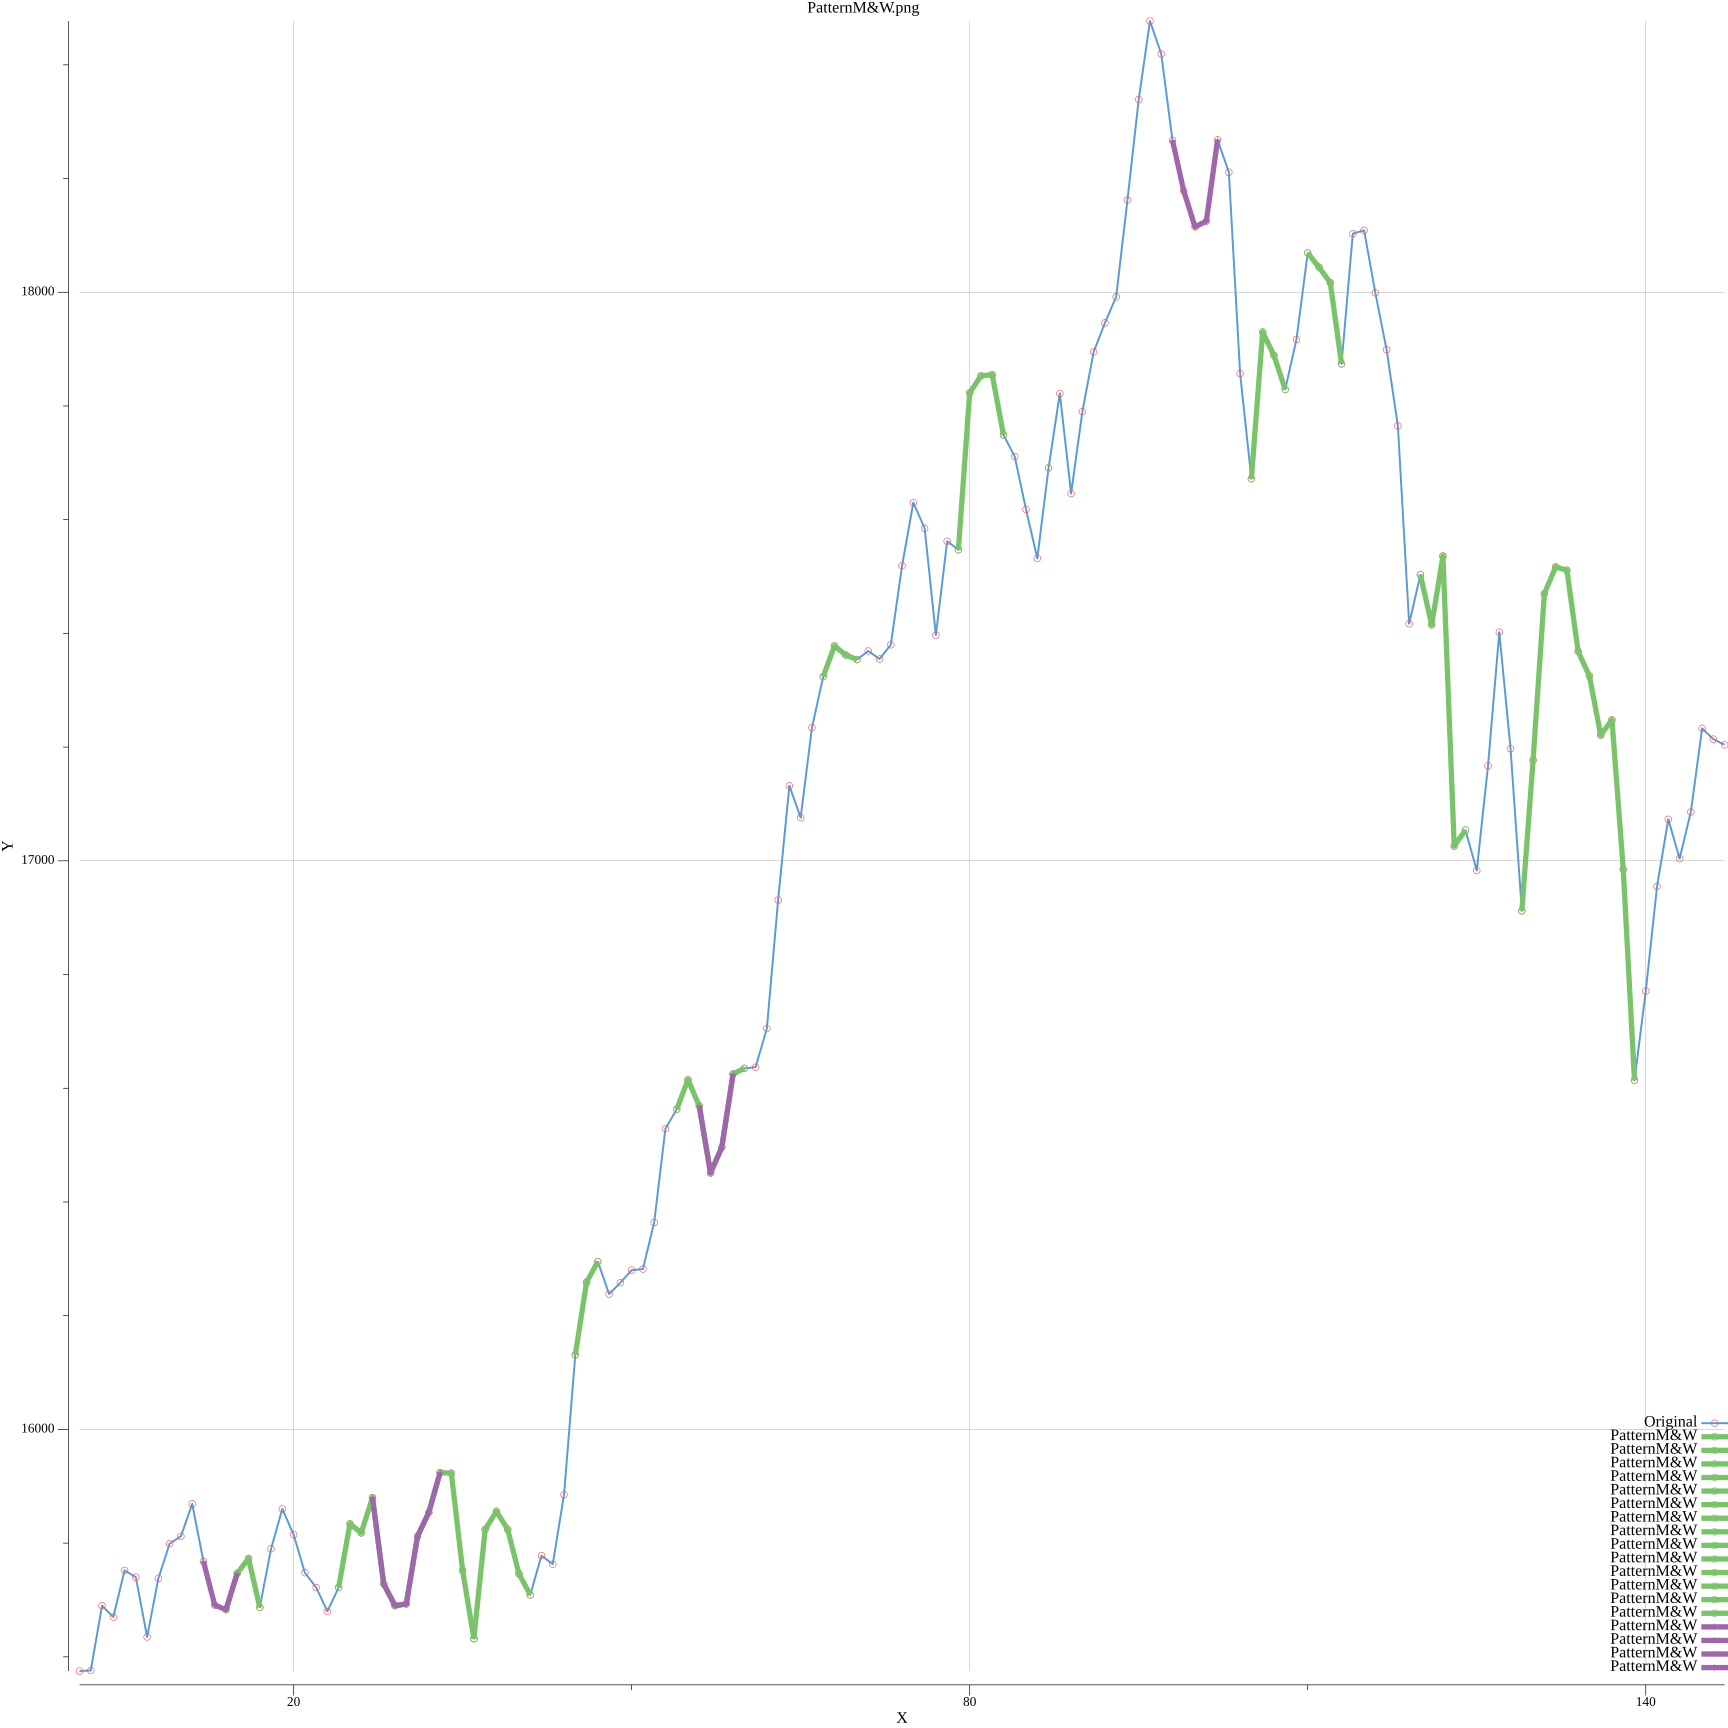
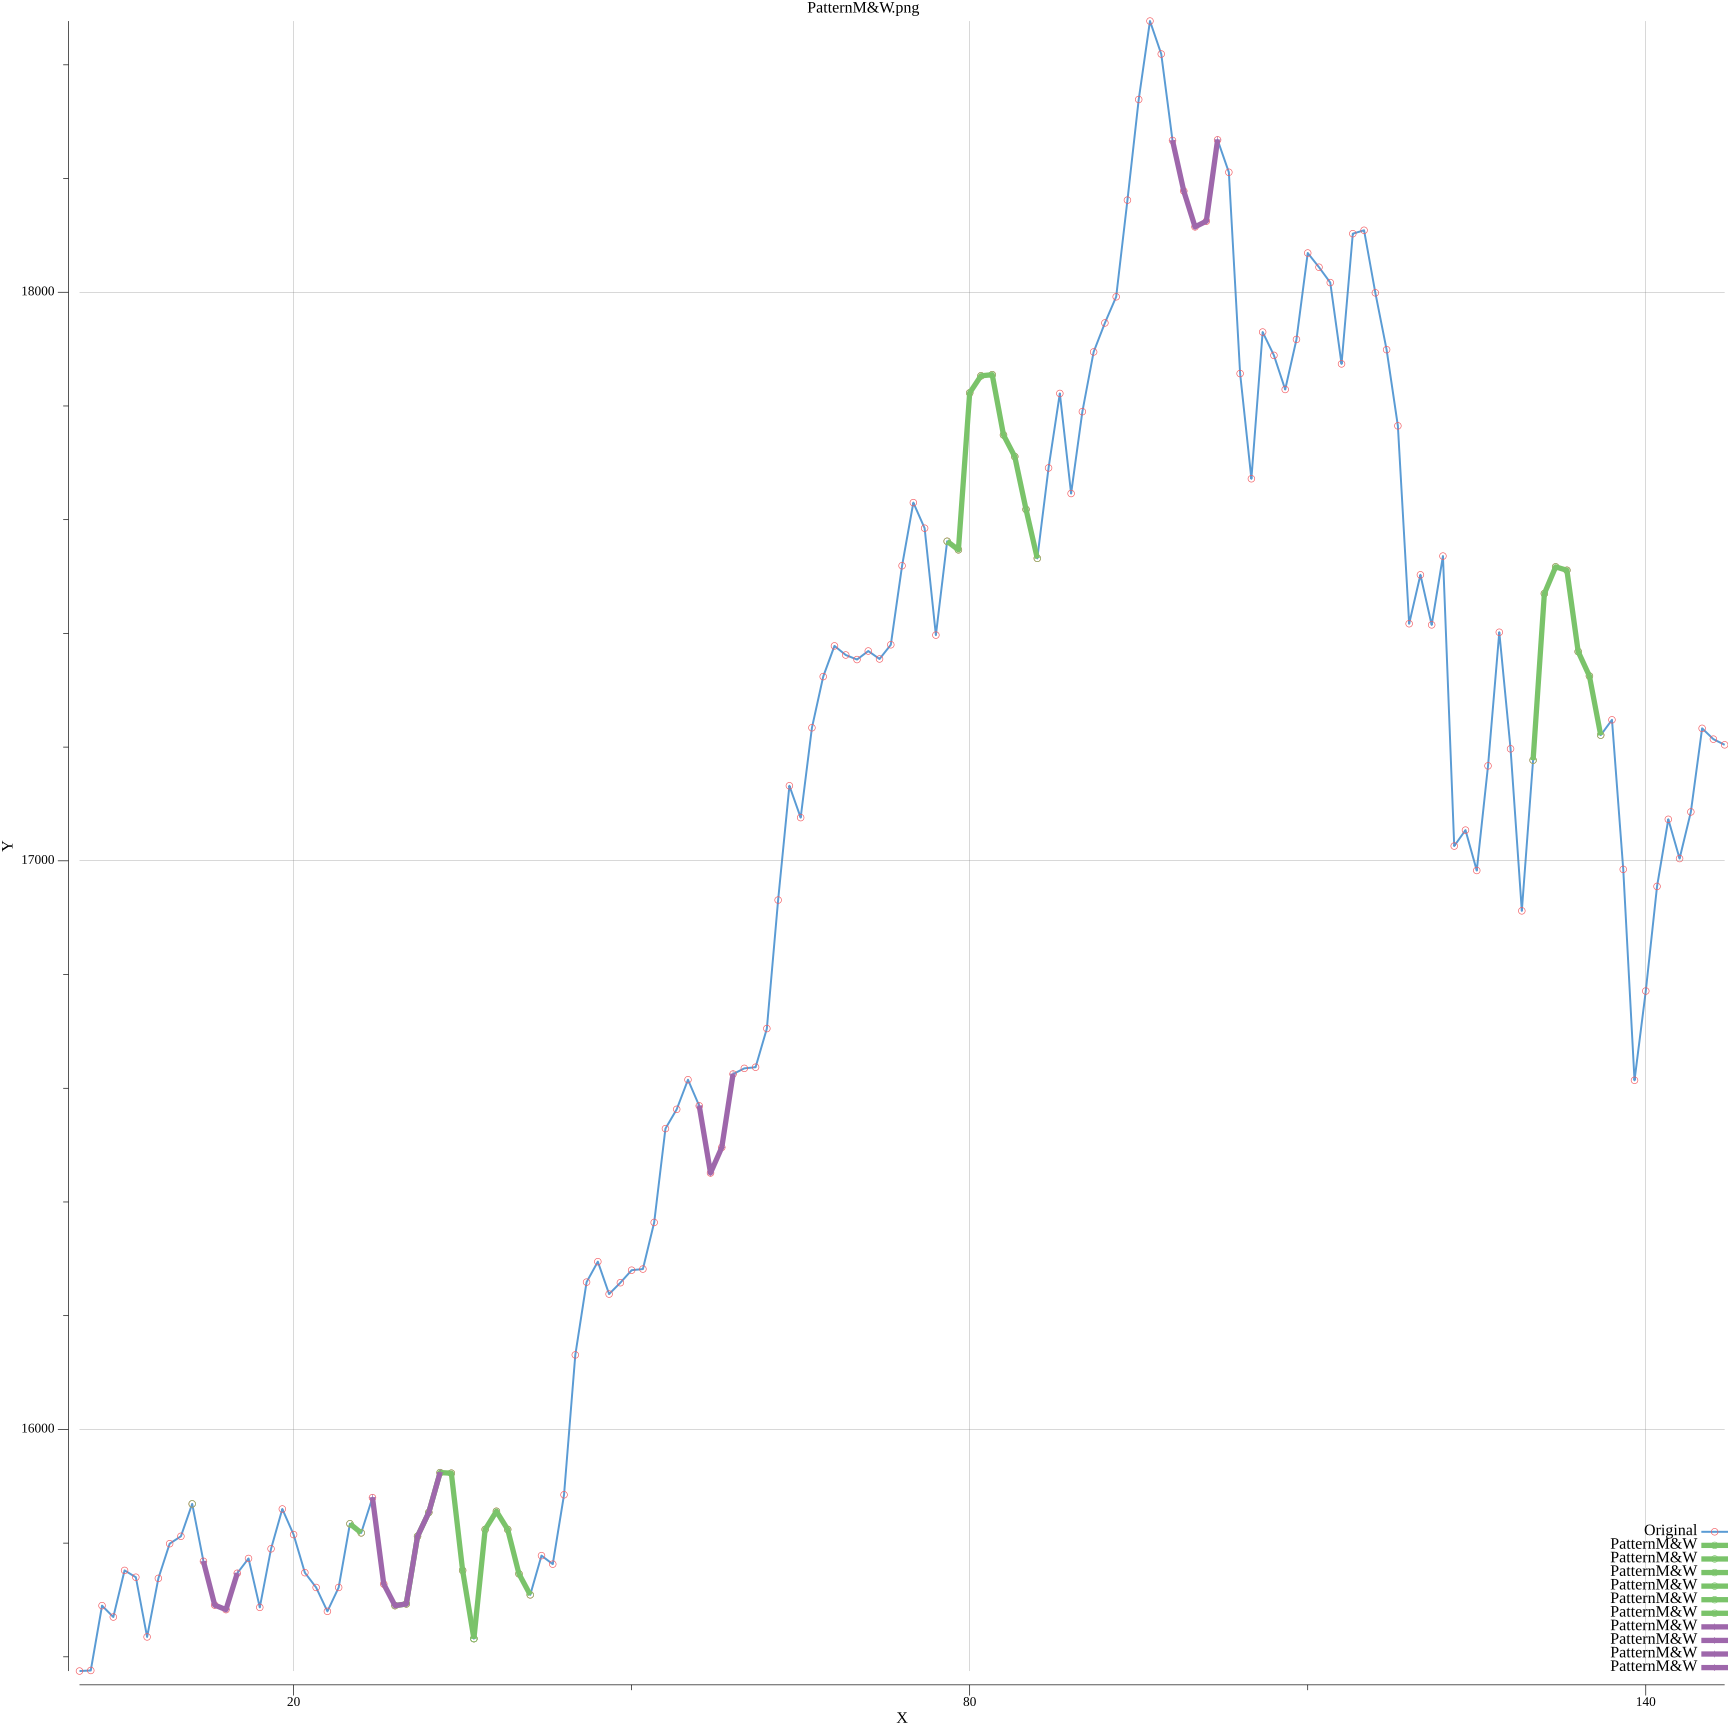
dfdf

diff --git a/All/Semi&Inverted_merge/merge_main1.go b/All/Semi&Inverted_merge/merge_main1.go
@@ -232,11 +232,11 @@ func (l *Date_struct) PatternSemi() ([]int, []int, int, bool) {
 				var a1 []int //start point
 				var x1 int
 
-				for i1 := 0; i1 < 50; i1++ {
+				for i1 := 0; i1 < 80; i1++ {
 					x1 = l.Date_struct[All_trends_index_values[i]+1].Value2 + i1
 					a1 = append(a1, x1)
 				}
-				for i2 := 0; i2 < 50; i2++ {
+				for i2 := 0; i2 < 80; i2++ {
 					x1 = l.Date_struct[All_trends_index_values[i]+1].Value2 - i2
 					a1 = append(a1, x1)
 				}
@@ -244,11 +244,11 @@ func (l *Date_struct) PatternSemi() ([]int, []int, int, bool) {
 				var a2 []int //end point
 				var x int
 
-				for i1 := 0; i1 < 50; i1++ {
+				for i1 := 0; i1 < 80; i1++ {
 					x = l.Date_struct[All_trends_index_values[i+2]].Value3 + i1
 					a2 = append(a2, x)
 				}
-				for i2 := 0; i2 < 50; i2++ {
+				for i2 := 0; i2 < 80; i2++ {
 					x = l.Date_struct[All_trends_index_values[i+2]].Value3 - i2
 					a2 = append(a2, x)
 				}
@@ -279,42 +279,39 @@ func (l *Date_struct) PatternSemi() ([]int, []int, int, bool) {
 				// 	count++
 				// 	bol = true
 				// }
-				if Is_Valid12(l.Date_struct[All_trends_index_values[i]+1].Value2, a1) && Is_Valid12(l.Date_struct[All_trends_index_values[i+2]-2].Value3, a2) {
-					start = append(start, All_trends_index_values[i+1]-2)
-					end = append(end, All_trends_index_values[i+2]-1)
+				if IsValidCategoryu(l.Date_struct[All_trends_index_values[i]].Value3, a2) && IsValidCategoryu(l.Date_struct[All_trends_index_values[i+2]].Value2, a1) {
+					start = append(start, All_trends_index_values[i])
+					end = append(end, All_trends_index_values[i+2]+1)
 					count++
 					bol = true
-				} else if Is_Valid12(l.Date_struct[All_trends_index_values[i]+1].Value2, a1) && Is_Valid12(l.Date_struct[All_trends_index_values[i+2]+1].Value3, a2) {
-					start = append(start, All_trends_index_values[i+1]-2)
-					end = append(end, All_trends_index_values[i+2]+1)
-					count++
-					bol = true //1
-				} else if Is_Valid12(l.Date_struct[All_trends_index_values[i]+1].Value2, a1) && Is_Valid12(l.Date_struct[All_trends_index_values[i+2]-1].Value3, a2) {
+				} else if IsValidCategoryu(l.Date_struct[All_trends_index_values[i]].Value2, a1) && IsValidCategoryu(l.Date_struct[All_trends_index_values[i+3]].Value2, a2) {
 					start = append(start, All_trends_index_values[i])
-					end = append(end, All_trends_index_values[i+2]-1)
-					count++
-					bol = true //2
-				} else if Is_Valid12(l.Date_struct[All_trends_index_values[i]+1].Value2, a2) {
-					start = append(start, All_trends_index_values[i])
-					end = append(end, All_trends_index_values[i+2]+1)
-					count++
-					bol = true //3
-				} else if Is_Valid12(l.Date_struct[All_trends_index_values[i+2]+1].Value2, a1) {
-					start = append(start, All_trends_index_values[i])
-					end = append(end, All_trends_index_values[i+2]+1)
-					count++
-					bol = true //3
-				} else if Is_Valid12(l.Date_struct[All_trends_index_values[i]+1].Value2, a1) && Is_Valid12(l.Date_struct[All_trends_index_values[i+2]+2].Value3, a2) {
-					start = append(start, All_trends_index_values[i])
-					end = append(end, All_trends_index_values[i+2]-1)
+					end = append(end, All_trends_index_values[i+3]+1)
 					count++
 					bol = true
-				} else if Is_Valid12(l.Date_struct[All_trends_index_values[i]].Value2, a1) && Is_Valid12(l.Date_struct[All_trends_index_values[i+2]].Value3, a2) {
-					start = append(start, All_trends_index_values[i])
-					end = append(end, All_trends_index_values[i+2]+1)
+				} else if IsValidCategoryu(l.Date_struct[All_trends_index_values[i]+1].Value2, a1) && IsValidCategoryu(l.Date_struct[All_trends_index_values[i+2]-3].Value3, a1) {
+					start = append(start, All_trends_index_values[i]+1)
+					end = append(end, All_trends_index_values[i+2]-2)
+					count++
+					bol = true
+				} else if IsValidCategoryu(l.Date_struct[All_trends_index_values[i]].Value2, a1) && IsValidCategoryu(l.Date_struct[All_trends_index_values[i+2]-3].Value2, a2) {
+					start = append(start, All_trends_index_values[i]+1)
+					end = append(end, All_trends_index_values[i+2]-2)
 					count++
 					bol = true
 				}
+				// else if IsValidCategoryu(l.Date_struct[All_trends_index_values[i+1]].Value2, a1) {
+				// 	start = append(start, All_trends_index_values[i+1])
+				// 	end = append(end, All_trends_index_values[i+3])
+				// 	count++
+				// 	bol = true //3
+				// }
+				// else if IsValidCategoryu(l.Date_struct[All_trends_index_values[i]].Value2, a1) && IsValidCategoryu(l.Date_struct[All_trends_index_values[i+2]].Value3, a2) {
+				// 	start = append(start, All_trends_index_values[i])
+				// 	end = append(end, All_trends_index_values[i+2]+1)
+				// 	count++
+				// 	bol = true
+				// }
 
 			}
 		}
